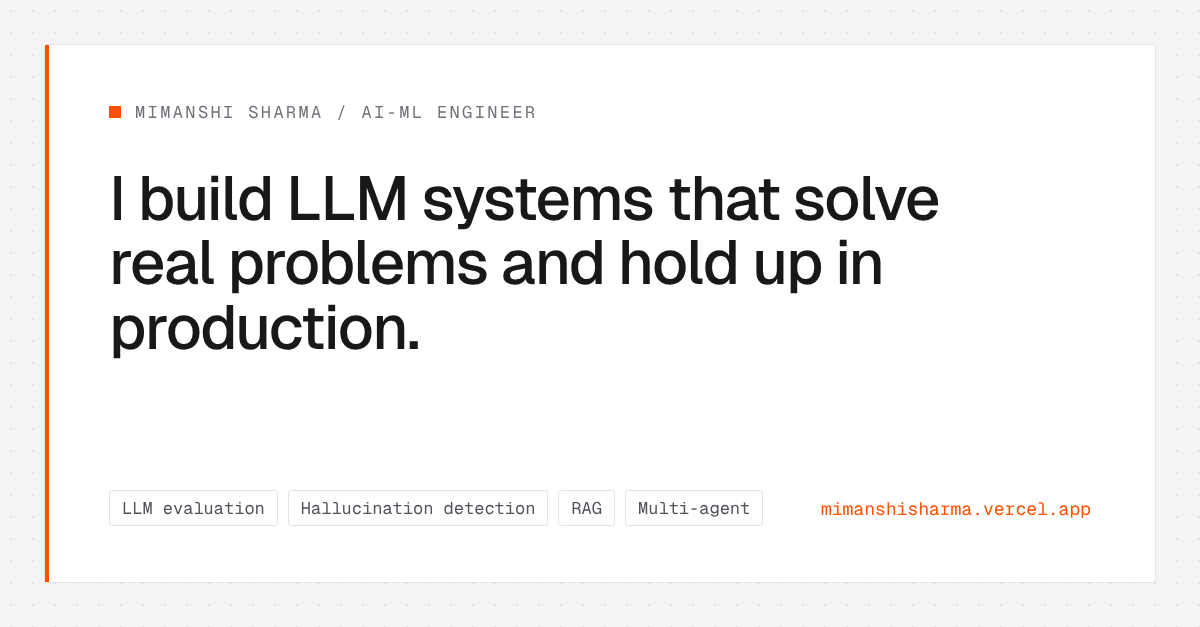
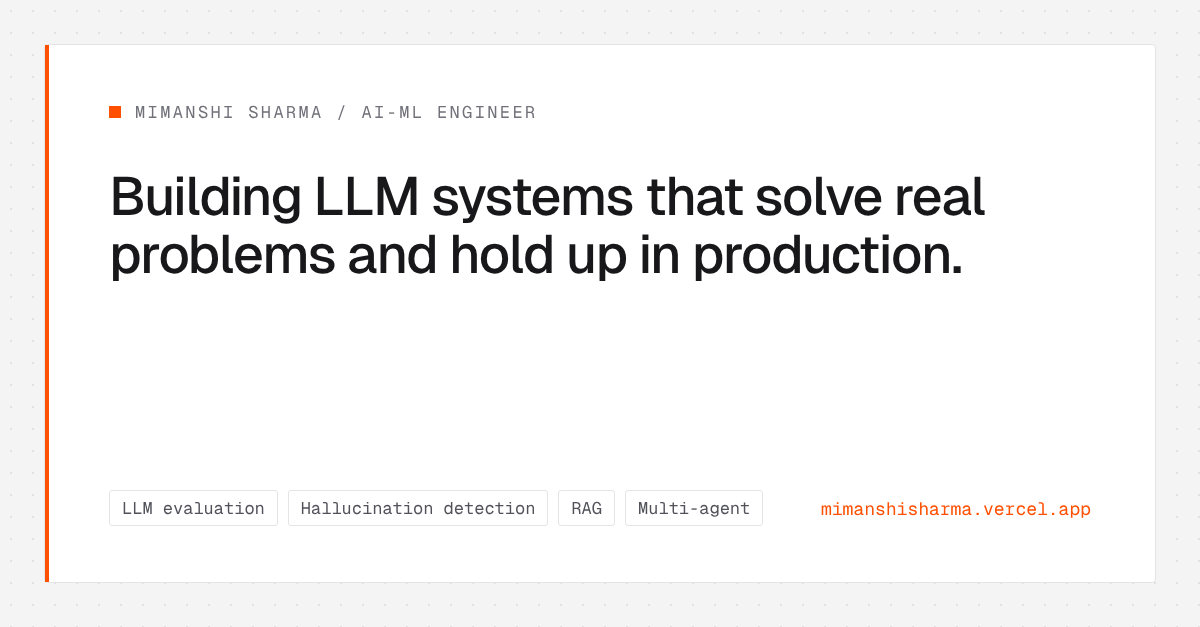
Headline: Building LLM systems that solve real problems, set in two lines
Claude-Session: https://claude.ai/code/session_01LLtqZ1GY5ZiZnVoywH38LJ

Changed region(s): [[0.0925, 0.2727, 0.8325, 0.4545], [0.0925, 0.4848, 0.3392, 0.5758]]

diff --git a/index.html b/index.html
@@ -24,7 +24,7 @@
 <link rel="preconnect" href="https://fonts.gstatic.com" crossorigin>
 <link rel="stylesheet" href="https://fonts.googleapis.com/css2?family=Geist:wght@400;500;600&family=Geist+Mono:wght@400;500&family=JetBrains+Mono:wght@400;500&display=swap">
 <style>
-*,:after,:before{--tw-border-spacing-x:0;--tw-border-spacing-y:0;--tw-translate-x:0;--tw-translate-y:0;--tw-rotate:0;--tw-skew-x:0;--tw-skew-y:0;--tw-scale-x:1;--tw-scale-y:1;--tw-pan-x: ;--tw-pan-y: ;--tw-pinch-zoom: ;--tw-scroll-snap-strictness:proximity;--tw-gradient-from-position: ;--tw-gradient-via-position: ;--tw-gradient-to-position: ;--tw-ordinal: ;--tw-slashed-zero: ;--tw-numeric-figure: ;--tw-numeric-spacing: ;--tw-numeric-fraction: ;--tw-ring-inset: ;--tw-ring-offset-width:0px;--tw-ring-offset-color:#fff;--tw-ring-color:rgba(59,130,246,.5);--tw-ring-offset-shadow:0 0 #0000;--tw-ring-shadow:0 0 #0000;--tw-shadow:0 0 #0000;--tw-shadow-colored:0 0 #0000;--tw-blur: ;--tw-brightness: ;--tw-contrast: ;--tw-grayscale: ;--tw-hue-rotate: ;--tw-invert: ;--tw-saturate: ;--tw-sepia: ;--tw-drop-shadow: ;--tw-backdrop-blur: ;--tw-backdrop-brightness: ;--tw-backdrop-contrast: ;--tw-backdrop-grayscale: ;--tw-backdrop-hue-rotate: ;--tw-backdrop-invert: ;--tw-backdrop-opacity: ;--tw-backdrop-saturate: ;--tw-backdrop-sepia: ;--tw-contain-size: ;--tw-contain-layout: ;--tw-contain-paint: ;--tw-contain-style: }::backdrop{--tw-border-spacing-x:0;--tw-border-spacing-y:0;--tw-translate-x:0;--tw-translate-y:0;--tw-rotate:0;--tw-skew-x:0;--tw-skew-y:0;--tw-scale-x:1;--tw-scale-y:1;--tw-pan-x: ;--tw-pan-y: ;--tw-pinch-zoom: ;--tw-scroll-snap-strictness:proximity;--tw-gradient-from-position: ;--tw-gradient-via-position: ;--tw-gradient-to-position: ;--tw-ordinal: ;--tw-slashed-zero: ;--tw-numeric-figure: ;--tw-numeric-spacing: ;--tw-numeric-fraction: ;--tw-ring-inset: ;--tw-ring-offset-width:0px;--tw-ring-offset-color:#fff;--tw-ring-color:rgba(59,130,246,.5);--tw-ring-offset-shadow:0 0 #0000;--tw-ring-shadow:0 0 #0000;--tw-shadow:0 0 #0000;--tw-shadow-colored:0 0 #0000;--tw-blur: ;--tw-brightness: ;--tw-contrast: ;--tw-grayscale: ;--tw-hue-rotate: ;--tw-invert: ;--tw-saturate: ;--tw-sepia: ;--tw-drop-shadow: ;--tw-backdrop-blur: ;--tw-backdrop-brightness: ;--tw-backdrop-contrast: ;--tw-backdrop-grayscale: ;--tw-backdrop-hue-rotate: ;--tw-backdrop-invert: ;--tw-backdrop-opacity: ;--tw-backdrop-saturate: ;--tw-backdrop-sepia: ;--tw-contain-size: ;--tw-contain-layout: ;--tw-contain-paint: ;--tw-contain-style: }/*! tailwindcss v3.4.17 | MIT License | https://tailwindcss.com*/*,:after,:before{box-sizing:border-box;border:0 solid #e5e7eb}:after,:before{--tw-content:""}:host,html{line-height:1.5;-webkit-text-size-adjust:100%;-moz-tab-size:4;-o-tab-size:4;tab-size:4;font-family:Geist,ui-sans-serif,system-ui,-apple-system,Segoe UI,Roboto,sans-serif;font-feature-settings:normal;font-variation-settings:normal;-webkit-tap-highlight-color:transparent}body{margin:0;line-height:inherit}hr{height:0;color:inherit;border-top-width:1px}abbr:where([title]){-webkit-text-decoration:underline dotted;text-decoration:underline dotted}h1,h2,h3,h4,h5,h6{font-size:inherit;font-weight:inherit}a{color:inherit;text-decoration:inherit}b,strong{font-weight:bolder}code,kbd,pre,samp{font-family:Geist Mono,ui-monospace,SFMono-Regular,Menlo,monospace;font-feature-settings:normal;font-variation-settings:normal;font-size:1em}small{font-size:80%}sub,sup{font-size:75%;line-height:0;position:relative;vertical-align:baseline}sub{bottom:-.25em}sup{top:-.5em}table{text-indent:0;border-color:inherit;border-collapse:collapse}button,input,optgroup,select,textarea{font-family:inherit;font-feature-settings:inherit;font-variation-settings:inherit;font-size:100%;font-weight:inherit;line-height:inherit;letter-spacing:inherit;color:inherit;margin:0;padding:0}button,select{text-transform:none}button,input:where([type=button]),input:where([type=reset]),input:where([type=submit]){-webkit-appearance:button;background-color:transparent;background-image:none}:-moz-focusring{outline:auto}:-moz-ui-invalid{box-shadow:none}progress{vertical-align:baseline}::-webkit-inner-spin-button,::-webkit-outer-spin-button{height:auto}[type=search]{-webkit-appearance:textfield;outline-offset:-2px}::-webkit-search-decoration{-webkit-appearance:none}::-webkit-file-upload-button{-webkit-appearance:button;font:inherit}summary{display:list-item}blockquote,dd,dl,figure,h1,h2,h3,h4,h5,h6,hr,p,pre{margin:0}fieldset{margin:0}fieldset,legend{padding:0}menu,ol,ul{list-style:none;margin:0;padding:0}dialog{padding:0}textarea{resize:vertical}input::-moz-placeholder,textarea::-moz-placeholder{opacity:1;color:#9ca3af}input::placeholder,textarea::placeholder{opacity:1;color:#9ca3af}[role=button],button{cursor:pointer}:disabled{cursor:default}audio,canvas,embed,iframe,img,object,svg,video{display:block;vertical-align:middle}img,video{max-width:100%;height:auto}[hidden]:where(:not([hidden=until-found])){display:none}.fixed{position:fixed}.absolute{position:absolute}.relative{position:relative}.sticky{position:sticky}.inset-0{inset:0}.inset-y-0{top:0;bottom:0}.-left-\[30px\]{left:-30px}.bottom-0{bottom:0}.bottom-1\.5{bottom:.375rem}.bottom-\[-1px\]{bottom:-1px}.left-0{left:0}.left-1\/2{left:50%}.left-3{left:.75rem}.left-\[7px\]{left:7px}.right-0{right:0}.top-0{top:0}.top-1\.5{top:.375rem}.top-1\/2{top:50%}.top-5{top:1.25rem}.z-50{z-index:50}.z-\[100\]{z-index:100}.z-\[110\]{z-index:110}.z-\[120\]{z-index:120}.m-0{margin:0}.-mx-\[max\(16px\2c env\(safe-area-inset-left\2c 0px\)\)\]{margin-left:calc(max(16px,env(safe-area-inset-left,0px))*-1);margin-right:calc(max(16px,env(safe-area-inset-left,0px))*-1)}.mx-auto{margin-left:auto;margin-right:auto}.mb-12{margin-bottom:3rem}.mb-4{margin-bottom:1rem}.ml-0\.5{margin-left:.125rem}.mr-2{margin-right:.5rem}.mt-1{margin-top:.25rem}.block{display:block}.flex{display:flex}.grid{display:grid}.hidden{display:none}.h-1\.5{height:.375rem}.h-12{height:3rem}.h-14{height:3.5rem}.h-2{height:.5rem}.h-2\.5{height:.625rem}.h-3{height:.75rem}.h-4{height:1rem}.h-6{height:1.5rem}.h-7{height:1.75rem}.h-8{height:2rem}.h-9{height:2.25rem}.h-\[12px\]{height:12px}.h-\[2px\]{height:2px}.h-auto{height:auto}.h-full{height:100%}.max-h-\[52px\]{max-height:52px}.max-h-\[75vh\]{max-height:75vh}.max-h-full{max-height:100%}.min-h-\[3em\]{min-height:3em}.w-1\.5{width:.375rem}.w-10{width:2.5rem}.w-16{width:4rem}.w-2{width:.5rem}.w-3{width:.75rem}.w-6{width:1.5rem}.w-7{width:1.75rem}.w-8{width:2rem}.w-9{width:2.25rem}.w-\[12px\]{width:12px}.w-\[2px\]{width:2px}.w-auto{width:auto}.w-full{width:100%}.min-w-0{min-width:0}.max-w-6xl{max-width:72rem}.max-w-\[1100px\]{max-width:1100px}.max-w-\[120px\]{max-width:120px}.max-w-\[34em\]{max-width:34em}.max-w-\[420px\]{max-width:420px}.max-w-\[46em\]{max-width:46em}.max-w-\[48em\]{max-width:48em}.max-w-\[50em\]{max-width:50em}.max-w-\[560px\]{max-width:560px}.max-w-\[760px\]{max-width:760px}.max-w-\[820px\]{max-width:820px}.max-w-full{max-width:100%}.flex-1{flex:1 1 0%}.shrink-0{flex-shrink:0}.grow{flex-grow:1}.-translate-x-1\/2{--tw-translate-x:-50%}.-translate-x-1\/2,.-translate-y-1\/2{transform:translate(var(--tw-translate-x),var(--tw-translate-y)) rotate(var(--tw-rotate)) skewX(var(--tw-skew-x)) skewY(var(--tw-skew-y)) scaleX(var(--tw-scale-x)) scaleY(var(--tw-scale-y))}.-translate-y-1\/2{--tw-translate-y:-50%}.transform{transform:translate(var(--tw-translate-x),var(--tw-translate-y)) rotate(var(--tw-rotate)) skewX(var(--tw-skew-x)) skewY(var(--tw-skew-y)) scaleX(var(--tw-scale-x)) scaleY(var(--tw-scale-y))}.select-all{-webkit-user-select:all;-moz-user-select:all;user-select:all}.resize{resize:both}.scroll-mt-16{scroll-margin-top:4rem}.scroll-mt-20{scroll-margin-top:5rem}.scroll-mt-24{scroll-margin-top:6rem}.list-none{list-style-type:none}.grid-cols-1{grid-template-columns:repeat(1,minmax(0,1fr))}.grid-cols-2{grid-template-columns:repeat(2,minmax(0,1fr))}.grid-cols-\[repeat\(19\2c minmax\(0\2c 1fr\)\)\]{grid-template-columns:repeat(19,minmax(0,1fr))}.flex-col{flex-direction:column}.flex-wrap{flex-wrap:wrap}.place-items-center{place-items:center}.content-start{align-content:flex-start}.items-start{align-items:flex-start}.items-end{align-items:flex-end}.items-center{align-items:center}.items-stretch{align-items:stretch}.justify-center{justify-content:center}.justify-between{justify-content:space-between}.gap-0{gap:0}.gap-1{gap:.25rem}.gap-1\.5{gap:.375rem}.gap-2{gap:.5rem}.gap-3{gap:.75rem}.gap-4{gap:1rem}.gap-5{gap:1.25rem}.gap-6{gap:1.5rem}.gap-8{gap:2rem}.gap-\[3px\]{gap:3px}.gap-x-4{-moz-column-gap:1rem;column-gap:1rem}.gap-y-1{row-gap:.25rem}.divide-y>:not([hidden])~:not([hidden]){--tw-divide-y-reverse:0;border-top-width:calc(1px*(1 - var(--tw-divide-y-reverse)));border-bottom-width:calc(1px*var(--tw-divide-y-reverse))}.divide-zinc-200>:not([hidden])~:not([hidden]){--tw-divide-opacity:1;border-color:rgb(228 228 231/var(--tw-divide-opacity,1))}.self-start{align-self:flex-start}.self-center{align-self:center}.justify-self-start{justify-self:start}.justify-self-center{justify-self:center}.overflow-auto{overflow:auto}.overflow-hidden,.truncate{overflow:hidden}.truncate{text-overflow:ellipsis}.truncate,.whitespace-nowrap{white-space:nowrap}.break-all{word-break:break-all}.rounded{border-radius:.25rem}.rounded-\[1px\]{border-radius:1px}.rounded-full{border-radius:9999px}.rounded-sm{border-radius:.125rem}.border{border-width:1px}.border-2{border-width:2px}.border-b{border-bottom-width:1px}.border-b-2{border-bottom-width:2px}.border-l{border-left-width:1px}.border-l-2{border-left-width:2px}.border-t{border-top-width:1px}.border-dashed{border-style:dashed}.border-\[\#FF4F00\]{--tw-border-opacity:1;border-color:rgb(255 79 0/var(--tw-border-opacity,1))}.border-\[\#FF4F00\]\/40{border-color:rgba(255,79,0,.4)}.border-transparent{border-color:transparent}.border-zinc-200{--tw-border-opacity:1;border-color:rgb(228 228 231/var(--tw-border-opacity,1))}.border-zinc-300{--tw-border-opacity:1;border-color:rgb(212 212 216/var(--tw-border-opacity,1))}.border-zinc-900{--tw-border-opacity:1;border-color:rgb(24 24 27/var(--tw-border-opacity,1))}.bg-\[\#16A34A\]{--tw-bg-opacity:1;background-color:rgb(22 163 74/var(--tw-bg-opacity,1))}.bg-\[\#FF4F00\]{--tw-bg-opacity:1;background-color:rgb(255 79 0/var(--tw-bg-opacity,1))}.bg-transparent{background-color:transparent}.bg-white{--tw-bg-opacity:1;background-color:rgb(255 255 255/var(--tw-bg-opacity,1))}.bg-zinc-100{--tw-bg-opacity:1;background-color:rgb(244 244 245/var(--tw-bg-opacity,1))}.bg-zinc-100\/80{background-color:hsla(240,5%,96%,.8)}.bg-zinc-200{--tw-bg-opacity:1;background-color:rgb(228 228 231/var(--tw-bg-opacity,1))}.bg-zinc-400{--tw-bg-opacity:1;background-color:rgb(161 161 170/var(--tw-bg-opacity,1))}.bg-zinc-50{--tw-bg-opacity:1;background-color:rgb(250 250 250/var(--tw-bg-opacity,1))}.bg-zinc-700{--tw-bg-opacity:1;background-color:rgb(63 63 70/var(--tw-bg-opacity,1))}.bg-zinc-900{--tw-bg-opacity:1;background-color:rgb(24 24 27/var(--tw-bg-opacity,1))}.bg-zinc-900\/20{background-color:rgba(24,24,27,.2)}.bg-zinc-900\/60{background-color:rgba(24,24,27,.6)}.object-contain{-o-object-fit:contain;object-fit:contain}.object-cover{-o-object-fit:cover;object-fit:cover}.object-top{-o-object-position:top;object-position:top}.p-0{padding:0}.p-3{padding:.75rem}.p-4{padding:1rem}.p-5{padding:1.25rem}.p-6{padding:1.5rem}.p-8{padding:2rem}.px-1\.5{padding-left:.375rem;padding-right:.375rem}.px-2{padding-left:.5rem;padding-right:.5rem}.px-2\.5{padding-left:.625rem;padding-right:.625rem}.px-3{padding-left:.75rem;padding-right:.75rem}.px-4{padding-left:1rem;padding-right:1rem}.px-5{padding-left:1.25rem;padding-right:1.25rem}.py-0\.5{padding-top:.125rem;padding-bottom:.125rem}.py-1{padding-top:.25rem;padding-bottom:.25rem}.py-1\.5{padding-top:.375rem;padding-bottom:.375rem}.py-2{padding-top:.5rem;padding-bottom:.5rem}.py-2\.5{padding-top:.625rem;padding-bottom:.625rem}.py-3{padding-top:.75rem;padding-bottom:.75rem}.py-px{padding-top:1px;padding-bottom:1px}.pb-10{padding-bottom:2.5rem}.pb-2{padding-bottom:.5rem}.pb-20{padding-bottom:5rem}.pl-3{padding-left:.75rem}.pl-4{padding-left:1rem}.pl-8{padding-left:2rem}.pr-2{padding-right:.5rem}.pt-0\.5{padding-top:.125rem}.pt-1{padding-top:.25rem}.pt-10{padding-top:2.5rem}.pt-16{padding-top:4rem}.pt-20{padding-top:5rem}.pt-5{padding-top:1.25rem}.text-left{text-align:left}.font-mono{font-family:Geist Mono,ui-monospace,SFMono-Regular,Menlo,monospace}.font-sans{font-family:Geist,ui-sans-serif,system-ui,-apple-system,Segoe UI,Roboto,sans-serif}.text-2xl{font-size:1.5rem;line-height:2rem}.text-\[10\.5px\]{font-size:10.5px}.text-\[10px\]{font-size:10px}.text-\[11\.5px\]{font-size:11.5px}.text-\[11px\]{font-size:11px}.text-\[12px\]{font-size:12px}.text-\[13px\]{font-size:13px}.text-\[14px\]{font-size:14px}.text-\[15px\]{font-size:15px}.text-\[16\.5px\]{font-size:16.5px}.text-\[17px\]{font-size:17px}.text-\[20px\]{font-size:20px}.text-\[22px\]{font-size:22px}.text-\[24px\]{font-size:24px}.text-\[26px\]{font-size:26px}.text-\[28px\]{font-size:28px}.text-\[30px\]{font-size:30px}.text-\[40px\]{font-size:40px}.text-\[9\.5px\]{font-size:9.5px}.text-lg{font-size:1.125rem;line-height:1.75rem}.text-sm{font-size:.875rem;line-height:1.25rem}.text-xs{font-size:.75rem;line-height:1rem}.font-medium{font-weight:500}.uppercase{text-transform:uppercase}.leading-\[1\.02\]{line-height:1.02}.leading-\[1\.05\]{line-height:1.05}.leading-none{line-height:1}.leading-relaxed{line-height:1.625}.leading-snug{line-height:1.375}.leading-tight{line-height:1.25}.tracking-\[-0\.01em\]{letter-spacing:-.01em}.tracking-\[-0\.02em\]{letter-spacing:-.02em}.tracking-\[-0\.03em\]{letter-spacing:-.03em}.tracking-\[0\.12em\]{letter-spacing:.12em}.tracking-tight{letter-spacing:-.025em}.text-\[\#FF4F00\]{--tw-text-opacity:1;color:rgb(255 79 0/var(--tw-text-opacity,1))}.text-white{--tw-text-opacity:1;color:rgb(255 255 255/var(--tw-text-opacity,1))}.text-zinc-400{--tw-text-opacity:1;color:rgb(161 161 170/var(--tw-text-opacity,1))}.text-zinc-500{--tw-text-opacity:1;color:rgb(113 113 122/var(--tw-text-opacity,1))}.text-zinc-600{--tw-text-opacity:1;color:rgb(82 82 91/var(--tw-text-opacity,1))}.text-zinc-700{--tw-text-opacity:1;color:rgb(63 63 70/var(--tw-text-opacity,1))}.text-zinc-800{--tw-text-opacity:1;color:rgb(39 39 42/var(--tw-text-opacity,1))}.text-zinc-900{--tw-text-opacity:1;color:rgb(24 24 27/var(--tw-text-opacity,1))}.underline{text-decoration-line:underline}.no-underline{text-decoration-line:none}.decoration-zinc-300{text-decoration-color:#d4d4d8}.underline-offset-4{text-underline-offset:4px}.shadow-\[0_20px_60px_-20px_rgba\(24\2c 24\2c 27\2c \.35\)\]{--tw-shadow:0 20px 60px -20px rgba(24,24,27,.35);--tw-shadow-colored:0 20px 60px -20px var(--tw-shadow-color);box-shadow:var(--tw-ring-offset-shadow,0 0 #0000),var(--tw-ring-shadow,0 0 #0000),var(--tw-shadow)}.outline-none{outline:2px solid transparent;outline-offset:2px}.ring{--tw-ring-offset-shadow:var(--tw-ring-inset) 0 0 0 var(--tw-ring-offset-width) var(--tw-ring-offset-color);--tw-ring-shadow:var(--tw-ring-inset) 0 0 0 calc(3px + var(--tw-ring-offset-width)) var(--tw-ring-color);box-shadow:var(--tw-ring-offset-shadow),var(--tw-ring-shadow),var(--tw-shadow,0 0 #0000)}.backdrop-blur-md{--tw-backdrop-blur:blur(12px)}.backdrop-blur-md,.backdrop-blur-sm{-webkit-backdrop-filter:var(--tw-backdrop-blur) var(--tw-backdrop-brightness) var(--tw-backdrop-contrast) var(--tw-backdrop-grayscale) var(--tw-backdrop-hue-rotate) var(--tw-backdrop-invert) var(--tw-backdrop-opacity) var(--tw-backdrop-saturate) var(--tw-backdrop-sepia);backdrop-filter:var(--tw-backdrop-blur) var(--tw-backdrop-brightness) var(--tw-backdrop-contrast) var(--tw-backdrop-grayscale) var(--tw-backdrop-hue-rotate) var(--tw-backdrop-invert) var(--tw-backdrop-opacity) var(--tw-backdrop-saturate) var(--tw-backdrop-sepia)}.backdrop-blur-sm{--tw-backdrop-blur:blur(4px)}.transition-all{transition-property:all;transition-timing-function:cubic-bezier(.4,0,.2,1);transition-duration:.15s}.transition-colors{transition-property:color,background-color,border-color,text-decoration-color,fill,stroke;transition-timing-function:cubic-bezier(.4,0,.2,1);transition-duration:.15s}.transition-transform{transition-property:transform;transition-timing-function:cubic-bezier(.4,0,.2,1);transition-duration:.15s}.duration-300{transition-duration:.3s}.duration-500{transition-duration:.5s}.duration-700{transition-duration:.7s}.ease-in-out{transition-timing-function:cubic-bezier(.4,0,.2,1)}.ease-out{transition-timing-function:cubic-bezier(0,0,.2,1)}.\[text-wrap\:balance\]{text-wrap:balance}.last\:border-b-0:last-child{border-bottom-width:0}.last\:pb-4:last-child{padding-bottom:1rem}.hover\:-translate-y-0\.5:hover{--tw-translate-y:-0.125rem;transform:translate(var(--tw-translate-x),var(--tw-translate-y)) rotate(var(--tw-rotate)) skewX(var(--tw-skew-x)) skewY(var(--tw-skew-y)) scaleX(var(--tw-scale-x)) scaleY(var(--tw-scale-y))}.hover\:border-zinc-300:hover{--tw-border-opacity:1;border-color:rgb(212 212 216/var(--tw-border-opacity,1))}.hover\:border-zinc-900:hover{--tw-border-opacity:1;border-color:rgb(24 24 27/var(--tw-border-opacity,1))}.hover\:bg-white:hover{--tw-bg-opacity:1;background-color:rgb(255 255 255/var(--tw-bg-opacity,1))}.hover\:bg-zinc-50:hover{--tw-bg-opacity:1;background-color:rgb(250 250 250/var(--tw-bg-opacity,1))}.hover\:bg-zinc-700:hover{--tw-bg-opacity:1;background-color:rgb(63 63 70/var(--tw-bg-opacity,1))}.hover\:text-zinc-900:hover{--tw-text-opacity:1;color:rgb(24 24 27/var(--tw-text-opacity,1))}.hover\:decoration-\[\#FF4F00\]:hover{text-decoration-color:#ff4f00}.group:hover .group-hover\:border-zinc-900{--tw-border-opacity:1;border-color:rgb(24 24 27/var(--tw-border-opacity,1))}.group:hover .group-hover\:text-zinc-600{--tw-text-opacity:1;color:rgb(82 82 91/var(--tw-text-opacity,1))}.group:hover .group-hover\:text-zinc-900{--tw-text-opacity:1;color:rgb(24 24 27/var(--tw-text-opacity,1))}@media (min-width:640px){.sm\:inline{display:inline}.sm\:grid-cols-2{grid-template-columns:repeat(2,minmax(0,1fr))}.sm\:grid-cols-3{grid-template-columns:repeat(3,minmax(0,1fr))}.sm\:grid-cols-\[1fr_auto_1fr\]{grid-template-columns:1fr auto 1fr}.sm\:flex-row{flex-direction:row}.sm\:items-center{align-items:center}.sm\:gap-4{gap:1rem}.sm\:p-10{padding:2.5rem}.sm\:p-5{padding:1.25rem}.sm\:p-6{padding:1.5rem}.sm\:p-7{padding:1.75rem}.sm\:px-6{padding-left:1.5rem;padding-right:1.5rem}.sm\:text-\[30px\]{font-size:30px}.sm\:text-\[38px\]{font-size:38px}.sm\:text-\[40px\]{font-size:40px}.sm\:text-\[60px\]{font-size:60px}}@media not all and (min-width:1280px){@media (min-width:640px){.max-xl\:sm\:grid-cols-3{grid-template-columns:repeat(3,minmax(0,1fr))}.max-xl\:sm\:divide-x>:not([hidden])~:not([hidden]){--tw-divide-x-reverse:0;border-right-width:calc(1px*var(--tw-divide-x-reverse));border-left-width:calc(1px*(1 - var(--tw-divide-x-reverse)))}.max-xl\:sm\:divide-y-0>:not([hidden])~:not([hidden]){--tw-divide-y-reverse:0;border-top-width:calc(0px*(1 - var(--tw-divide-y-reverse)));border-bottom-width:calc(0px*var(--tw-divide-y-reverse))}}}@media (min-width:768px){.md\:-left-\[38px\]{left:-38px}.md\:inline{display:inline}.md\:grid-cols-2{grid-template-columns:repeat(2,minmax(0,1fr))}.md\:grid-cols-3{grid-template-columns:repeat(3,minmax(0,1fr))}.md\:grid-cols-\[minmax\(0\2c 1\.2fr\)_minmax\(0\2c 1fr\)\]{grid-template-columns:minmax(0,1.2fr) minmax(0,1fr)}.md\:pl-10{padding-left:2.5rem}}@media (min-width:1024px){.lg\:sticky{position:sticky}.lg\:top-\[96px\]{top:96px}.lg\:flex{display:flex}.lg\:grid-cols-2{grid-template-columns:repeat(2,minmax(0,1fr))}.lg\:grid-cols-5{grid-template-columns:repeat(5,minmax(0,1fr))}.lg\:grid-cols-\[1\.3fr_1fr\]{grid-template-columns:1.3fr 1fr}.lg\:grid-cols-\[200px_minmax\(0\2c 1fr\)\]{grid-template-columns:200px minmax(0,1fr)}.lg\:justify-items-end{justify-items:end}.lg\:gap-8{gap:2rem}.lg\:pt-28{padding-top:7rem}}@media (min-width:1280px){.xl\:sticky{position:sticky}.xl\:top-\[88px\]{top:88px}.xl\:grid-cols-\[240px_minmax\(0\2c 1fr\)\]{grid-template-columns:240px minmax(0,1fr)}.xl\:divide-y>:not([hidden])~:not([hidden]){--tw-divide-y-reverse:0;border-top-width:calc(1px*(1 - var(--tw-divide-y-reverse)));border-bottom-width:calc(1px*var(--tw-divide-y-reverse))}}
+*,:after,:before{--tw-border-spacing-x:0;--tw-border-spacing-y:0;--tw-translate-x:0;--tw-translate-y:0;--tw-rotate:0;--tw-skew-x:0;--tw-skew-y:0;--tw-scale-x:1;--tw-scale-y:1;--tw-pan-x: ;--tw-pan-y: ;--tw-pinch-zoom: ;--tw-scroll-snap-strictness:proximity;--tw-gradient-from-position: ;--tw-gradient-via-position: ;--tw-gradient-to-position: ;--tw-ordinal: ;--tw-slashed-zero: ;--tw-numeric-figure: ;--tw-numeric-spacing: ;--tw-numeric-fraction: ;--tw-ring-inset: ;--tw-ring-offset-width:0px;--tw-ring-offset-color:#fff;--tw-ring-color:rgba(59,130,246,.5);--tw-ring-offset-shadow:0 0 #0000;--tw-ring-shadow:0 0 #0000;--tw-shadow:0 0 #0000;--tw-shadow-colored:0 0 #0000;--tw-blur: ;--tw-brightness: ;--tw-contrast: ;--tw-grayscale: ;--tw-hue-rotate: ;--tw-invert: ;--tw-saturate: ;--tw-sepia: ;--tw-drop-shadow: ;--tw-backdrop-blur: ;--tw-backdrop-brightness: ;--tw-backdrop-contrast: ;--tw-backdrop-grayscale: ;--tw-backdrop-hue-rotate: ;--tw-backdrop-invert: ;--tw-backdrop-opacity: ;--tw-backdrop-saturate: ;--tw-backdrop-sepia: ;--tw-contain-size: ;--tw-contain-layout: ;--tw-contain-paint: ;--tw-contain-style: }::backdrop{--tw-border-spacing-x:0;--tw-border-spacing-y:0;--tw-translate-x:0;--tw-translate-y:0;--tw-rotate:0;--tw-skew-x:0;--tw-skew-y:0;--tw-scale-x:1;--tw-scale-y:1;--tw-pan-x: ;--tw-pan-y: ;--tw-pinch-zoom: ;--tw-scroll-snap-strictness:proximity;--tw-gradient-from-position: ;--tw-gradient-via-position: ;--tw-gradient-to-position: ;--tw-ordinal: ;--tw-slashed-zero: ;--tw-numeric-figure: ;--tw-numeric-spacing: ;--tw-numeric-fraction: ;--tw-ring-inset: ;--tw-ring-offset-width:0px;--tw-ring-offset-color:#fff;--tw-ring-color:rgba(59,130,246,.5);--tw-ring-offset-shadow:0 0 #0000;--tw-ring-shadow:0 0 #0000;--tw-shadow:0 0 #0000;--tw-shadow-colored:0 0 #0000;--tw-blur: ;--tw-brightness: ;--tw-contrast: ;--tw-grayscale: ;--tw-hue-rotate: ;--tw-invert: ;--tw-saturate: ;--tw-sepia: ;--tw-drop-shadow: ;--tw-backdrop-blur: ;--tw-backdrop-brightness: ;--tw-backdrop-contrast: ;--tw-backdrop-grayscale: ;--tw-backdrop-hue-rotate: ;--tw-backdrop-invert: ;--tw-backdrop-opacity: ;--tw-backdrop-saturate: ;--tw-backdrop-sepia: ;--tw-contain-size: ;--tw-contain-layout: ;--tw-contain-paint: ;--tw-contain-style: }/*! tailwindcss v3.4.17 | MIT License | https://tailwindcss.com*/*,:after,:before{box-sizing:border-box;border:0 solid #e5e7eb}:after,:before{--tw-content:""}:host,html{line-height:1.5;-webkit-text-size-adjust:100%;-moz-tab-size:4;-o-tab-size:4;tab-size:4;font-family:Geist,ui-sans-serif,system-ui,-apple-system,Segoe UI,Roboto,sans-serif;font-feature-settings:normal;font-variation-settings:normal;-webkit-tap-highlight-color:transparent}body{margin:0;line-height:inherit}hr{height:0;color:inherit;border-top-width:1px}abbr:where([title]){-webkit-text-decoration:underline dotted;text-decoration:underline dotted}h1,h2,h3,h4,h5,h6{font-size:inherit;font-weight:inherit}a{color:inherit;text-decoration:inherit}b,strong{font-weight:bolder}code,kbd,pre,samp{font-family:Geist Mono,ui-monospace,SFMono-Regular,Menlo,monospace;font-feature-settings:normal;font-variation-settings:normal;font-size:1em}small{font-size:80%}sub,sup{font-size:75%;line-height:0;position:relative;vertical-align:baseline}sub{bottom:-.25em}sup{top:-.5em}table{text-indent:0;border-color:inherit;border-collapse:collapse}button,input,optgroup,select,textarea{font-family:inherit;font-feature-settings:inherit;font-variation-settings:inherit;font-size:100%;font-weight:inherit;line-height:inherit;letter-spacing:inherit;color:inherit;margin:0;padding:0}button,select{text-transform:none}button,input:where([type=button]),input:where([type=reset]),input:where([type=submit]){-webkit-appearance:button;background-color:transparent;background-image:none}:-moz-focusring{outline:auto}:-moz-ui-invalid{box-shadow:none}progress{vertical-align:baseline}::-webkit-inner-spin-button,::-webkit-outer-spin-button{height:auto}[type=search]{-webkit-appearance:textfield;outline-offset:-2px}::-webkit-search-decoration{-webkit-appearance:none}::-webkit-file-upload-button{-webkit-appearance:button;font:inherit}summary{display:list-item}blockquote,dd,dl,figure,h1,h2,h3,h4,h5,h6,hr,p,pre{margin:0}fieldset{margin:0}fieldset,legend{padding:0}menu,ol,ul{list-style:none;margin:0;padding:0}dialog{padding:0}textarea{resize:vertical}input::-moz-placeholder,textarea::-moz-placeholder{opacity:1;color:#9ca3af}input::placeholder,textarea::placeholder{opacity:1;color:#9ca3af}[role=button],button{cursor:pointer}:disabled{cursor:default}audio,canvas,embed,iframe,img,object,svg,video{display:block;vertical-align:middle}img,video{max-width:100%;height:auto}[hidden]:where(:not([hidden=until-found])){display:none}.fixed{position:fixed}.absolute{position:absolute}.relative{position:relative}.sticky{position:sticky}.inset-0{inset:0}.inset-y-0{top:0;bottom:0}.-left-\[30px\]{left:-30px}.bottom-0{bottom:0}.bottom-1\.5{bottom:.375rem}.bottom-\[-1px\]{bottom:-1px}.left-0{left:0}.left-1\/2{left:50%}.left-3{left:.75rem}.left-\[7px\]{left:7px}.right-0{right:0}.top-0{top:0}.top-1\.5{top:.375rem}.top-1\/2{top:50%}.top-5{top:1.25rem}.z-50{z-index:50}.z-\[100\]{z-index:100}.z-\[110\]{z-index:110}.z-\[120\]{z-index:120}.m-0{margin:0}.-mx-\[max\(16px\2c env\(safe-area-inset-left\2c 0px\)\)\]{margin-left:calc(max(16px,env(safe-area-inset-left,0px))*-1);margin-right:calc(max(16px,env(safe-area-inset-left,0px))*-1)}.mx-auto{margin-left:auto;margin-right:auto}.mb-12{margin-bottom:3rem}.mb-4{margin-bottom:1rem}.ml-0\.5{margin-left:.125rem}.mr-2{margin-right:.5rem}.mt-1{margin-top:.25rem}.block{display:block}.flex{display:flex}.grid{display:grid}.hidden{display:none}.h-1\.5{height:.375rem}.h-12{height:3rem}.h-14{height:3.5rem}.h-2{height:.5rem}.h-2\.5{height:.625rem}.h-3{height:.75rem}.h-4{height:1rem}.h-6{height:1.5rem}.h-7{height:1.75rem}.h-8{height:2rem}.h-9{height:2.25rem}.h-\[12px\]{height:12px}.h-\[2px\]{height:2px}.h-auto{height:auto}.h-full{height:100%}.max-h-\[52px\]{max-height:52px}.max-h-\[75vh\]{max-height:75vh}.max-h-full{max-height:100%}.min-h-\[3em\]{min-height:3em}.w-1\.5{width:.375rem}.w-10{width:2.5rem}.w-16{width:4rem}.w-2{width:.5rem}.w-3{width:.75rem}.w-6{width:1.5rem}.w-7{width:1.75rem}.w-8{width:2rem}.w-9{width:2.25rem}.w-\[12px\]{width:12px}.w-\[2px\]{width:2px}.w-auto{width:auto}.w-full{width:100%}.min-w-0{min-width:0}.max-w-6xl{max-width:72rem}.max-w-\[1040px\]{max-width:1040px}.max-w-\[1100px\]{max-width:1100px}.max-w-\[120px\]{max-width:120px}.max-w-\[34em\]{max-width:34em}.max-w-\[420px\]{max-width:420px}.max-w-\[46em\]{max-width:46em}.max-w-\[48em\]{max-width:48em}.max-w-\[50em\]{max-width:50em}.max-w-\[560px\]{max-width:560px}.max-w-\[820px\]{max-width:820px}.max-w-full{max-width:100%}.flex-1{flex:1 1 0%}.shrink-0{flex-shrink:0}.grow{flex-grow:1}.-translate-x-1\/2{--tw-translate-x:-50%}.-translate-x-1\/2,.-translate-y-1\/2{transform:translate(var(--tw-translate-x),var(--tw-translate-y)) rotate(var(--tw-rotate)) skewX(var(--tw-skew-x)) skewY(var(--tw-skew-y)) scaleX(var(--tw-scale-x)) scaleY(var(--tw-scale-y))}.-translate-y-1\/2{--tw-translate-y:-50%}.transform{transform:translate(var(--tw-translate-x),var(--tw-translate-y)) rotate(var(--tw-rotate)) skewX(var(--tw-skew-x)) skewY(var(--tw-skew-y)) scaleX(var(--tw-scale-x)) scaleY(var(--tw-scale-y))}.select-all{-webkit-user-select:all;-moz-user-select:all;user-select:all}.resize{resize:both}.scroll-mt-16{scroll-margin-top:4rem}.scroll-mt-20{scroll-margin-top:5rem}.scroll-mt-24{scroll-margin-top:6rem}.list-none{list-style-type:none}.grid-cols-1{grid-template-columns:repeat(1,minmax(0,1fr))}.grid-cols-2{grid-template-columns:repeat(2,minmax(0,1fr))}.grid-cols-\[repeat\(19\2c minmax\(0\2c 1fr\)\)\]{grid-template-columns:repeat(19,minmax(0,1fr))}.flex-col{flex-direction:column}.flex-wrap{flex-wrap:wrap}.place-items-center{place-items:center}.content-start{align-content:flex-start}.items-start{align-items:flex-start}.items-end{align-items:flex-end}.items-center{align-items:center}.items-stretch{align-items:stretch}.justify-center{justify-content:center}.justify-between{justify-content:space-between}.gap-0{gap:0}.gap-1{gap:.25rem}.gap-1\.5{gap:.375rem}.gap-2{gap:.5rem}.gap-3{gap:.75rem}.gap-4{gap:1rem}.gap-5{gap:1.25rem}.gap-6{gap:1.5rem}.gap-8{gap:2rem}.gap-\[3px\]{gap:3px}.gap-x-4{-moz-column-gap:1rem;column-gap:1rem}.gap-y-1{row-gap:.25rem}.divide-y>:not([hidden])~:not([hidden]){--tw-divide-y-reverse:0;border-top-width:calc(1px*(1 - var(--tw-divide-y-reverse)));border-bottom-width:calc(1px*var(--tw-divide-y-reverse))}.divide-zinc-200>:not([hidden])~:not([hidden]){--tw-divide-opacity:1;border-color:rgb(228 228 231/var(--tw-divide-opacity,1))}.self-start{align-self:flex-start}.self-center{align-self:center}.justify-self-start{justify-self:start}.justify-self-center{justify-self:center}.overflow-auto{overflow:auto}.overflow-hidden,.truncate{overflow:hidden}.truncate{text-overflow:ellipsis}.truncate,.whitespace-nowrap{white-space:nowrap}.break-all{word-break:break-all}.rounded{border-radius:.25rem}.rounded-\[1px\]{border-radius:1px}.rounded-full{border-radius:9999px}.rounded-sm{border-radius:.125rem}.border{border-width:1px}.border-2{border-width:2px}.border-b{border-bottom-width:1px}.border-b-2{border-bottom-width:2px}.border-l{border-left-width:1px}.border-l-2{border-left-width:2px}.border-t{border-top-width:1px}.border-dashed{border-style:dashed}.border-\[\#FF4F00\]{--tw-border-opacity:1;border-color:rgb(255 79 0/var(--tw-border-opacity,1))}.border-\[\#FF4F00\]\/40{border-color:rgba(255,79,0,.4)}.border-transparent{border-color:transparent}.border-zinc-200{--tw-border-opacity:1;border-color:rgb(228 228 231/var(--tw-border-opacity,1))}.border-zinc-300{--tw-border-opacity:1;border-color:rgb(212 212 216/var(--tw-border-opacity,1))}.border-zinc-900{--tw-border-opacity:1;border-color:rgb(24 24 27/var(--tw-border-opacity,1))}.bg-\[\#16A34A\]{--tw-bg-opacity:1;background-color:rgb(22 163 74/var(--tw-bg-opacity,1))}.bg-\[\#FF4F00\]{--tw-bg-opacity:1;background-color:rgb(255 79 0/var(--tw-bg-opacity,1))}.bg-transparent{background-color:transparent}.bg-white{--tw-bg-opacity:1;background-color:rgb(255 255 255/var(--tw-bg-opacity,1))}.bg-zinc-100{--tw-bg-opacity:1;background-color:rgb(244 244 245/var(--tw-bg-opacity,1))}.bg-zinc-100\/80{background-color:hsla(240,5%,96%,.8)}.bg-zinc-200{--tw-bg-opacity:1;background-color:rgb(228 228 231/var(--tw-bg-opacity,1))}.bg-zinc-400{--tw-bg-opacity:1;background-color:rgb(161 161 170/var(--tw-bg-opacity,1))}.bg-zinc-50{--tw-bg-opacity:1;background-color:rgb(250 250 250/var(--tw-bg-opacity,1))}.bg-zinc-700{--tw-bg-opacity:1;background-color:rgb(63 63 70/var(--tw-bg-opacity,1))}.bg-zinc-900{--tw-bg-opacity:1;background-color:rgb(24 24 27/var(--tw-bg-opacity,1))}.bg-zinc-900\/20{background-color:rgba(24,24,27,.2)}.bg-zinc-900\/60{background-color:rgba(24,24,27,.6)}.object-contain{-o-object-fit:contain;object-fit:contain}.object-cover{-o-object-fit:cover;object-fit:cover}.object-top{-o-object-position:top;object-position:top}.p-0{padding:0}.p-3{padding:.75rem}.p-4{padding:1rem}.p-5{padding:1.25rem}.p-6{padding:1.5rem}.p-8{padding:2rem}.px-1\.5{padding-left:.375rem;padding-right:.375rem}.px-2{padding-left:.5rem;padding-right:.5rem}.px-2\.5{padding-left:.625rem;padding-right:.625rem}.px-3{padding-left:.75rem;padding-right:.75rem}.px-4{padding-left:1rem;padding-right:1rem}.px-5{padding-left:1.25rem;padding-right:1.25rem}.py-0\.5{padding-top:.125rem;padding-bottom:.125rem}.py-1{padding-top:.25rem;padding-bottom:.25rem}.py-1\.5{padding-top:.375rem;padding-bottom:.375rem}.py-2{padding-top:.5rem;padding-bottom:.5rem}.py-2\.5{padding-top:.625rem;padding-bottom:.625rem}.py-3{padding-top:.75rem;padding-bottom:.75rem}.py-px{padding-top:1px;padding-bottom:1px}.pb-10{padding-bottom:2.5rem}.pb-2{padding-bottom:.5rem}.pb-20{padding-bottom:5rem}.pl-3{padding-left:.75rem}.pl-4{padding-left:1rem}.pl-8{padding-left:2rem}.pr-2{padding-right:.5rem}.pt-0\.5{padding-top:.125rem}.pt-1{padding-top:.25rem}.pt-10{padding-top:2.5rem}.pt-16{padding-top:4rem}.pt-20{padding-top:5rem}.pt-5{padding-top:1.25rem}.text-left{text-align:left}.font-mono{font-family:Geist Mono,ui-monospace,SFMono-Regular,Menlo,monospace}.font-sans{font-family:Geist,ui-sans-serif,system-ui,-apple-system,Segoe UI,Roboto,sans-serif}.text-2xl{font-size:1.5rem;line-height:2rem}.text-\[10\.5px\]{font-size:10.5px}.text-\[10px\]{font-size:10px}.text-\[11\.5px\]{font-size:11.5px}.text-\[11px\]{font-size:11px}.text-\[12px\]{font-size:12px}.text-\[13px\]{font-size:13px}.text-\[14px\]{font-size:14px}.text-\[15px\]{font-size:15px}.text-\[16\.5px\]{font-size:16.5px}.text-\[17px\]{font-size:17px}.text-\[20px\]{font-size:20px}.text-\[22px\]{font-size:22px}.text-\[24px\]{font-size:24px}.text-\[26px\]{font-size:26px}.text-\[28px\]{font-size:28px}.text-\[30px\]{font-size:30px}.text-\[38px\]{font-size:38px}.text-\[9\.5px\]{font-size:9.5px}.text-lg{font-size:1.125rem;line-height:1.75rem}.text-sm{font-size:.875rem;line-height:1.25rem}.text-xs{font-size:.75rem;line-height:1rem}.font-medium{font-weight:500}.uppercase{text-transform:uppercase}.leading-\[1\.05\]{line-height:1.05}.leading-none{line-height:1}.leading-relaxed{line-height:1.625}.leading-snug{line-height:1.375}.leading-tight{line-height:1.25}.tracking-\[-0\.01em\]{letter-spacing:-.01em}.tracking-\[-0\.02em\]{letter-spacing:-.02em}.tracking-\[-0\.03em\]{letter-spacing:-.03em}.tracking-\[0\.12em\]{letter-spacing:.12em}.tracking-tight{letter-spacing:-.025em}.text-\[\#FF4F00\]{--tw-text-opacity:1;color:rgb(255 79 0/var(--tw-text-opacity,1))}.text-white{--tw-text-opacity:1;color:rgb(255 255 255/var(--tw-text-opacity,1))}.text-zinc-400{--tw-text-opacity:1;color:rgb(161 161 170/var(--tw-text-opacity,1))}.text-zinc-500{--tw-text-opacity:1;color:rgb(113 113 122/var(--tw-text-opacity,1))}.text-zinc-600{--tw-text-opacity:1;color:rgb(82 82 91/var(--tw-text-opacity,1))}.text-zinc-700{--tw-text-opacity:1;color:rgb(63 63 70/var(--tw-text-opacity,1))}.text-zinc-800{--tw-text-opacity:1;color:rgb(39 39 42/var(--tw-text-opacity,1))}.text-zinc-900{--tw-text-opacity:1;color:rgb(24 24 27/var(--tw-text-opacity,1))}.underline{text-decoration-line:underline}.no-underline{text-decoration-line:none}.decoration-zinc-300{text-decoration-color:#d4d4d8}.underline-offset-4{text-underline-offset:4px}.shadow-\[0_20px_60px_-20px_rgba\(24\2c 24\2c 27\2c \.35\)\]{--tw-shadow:0 20px 60px -20px rgba(24,24,27,.35);--tw-shadow-colored:0 20px 60px -20px var(--tw-shadow-color);box-shadow:var(--tw-ring-offset-shadow,0 0 #0000),var(--tw-ring-shadow,0 0 #0000),var(--tw-shadow)}.outline-none{outline:2px solid transparent;outline-offset:2px}.ring{--tw-ring-offset-shadow:var(--tw-ring-inset) 0 0 0 var(--tw-ring-offset-width) var(--tw-ring-offset-color);--tw-ring-shadow:var(--tw-ring-inset) 0 0 0 calc(3px + var(--tw-ring-offset-width)) var(--tw-ring-color);box-shadow:var(--tw-ring-offset-shadow),var(--tw-ring-shadow),var(--tw-shadow,0 0 #0000)}.backdrop-blur-md{--tw-backdrop-blur:blur(12px)}.backdrop-blur-md,.backdrop-blur-sm{-webkit-backdrop-filter:var(--tw-backdrop-blur) var(--tw-backdrop-brightness) var(--tw-backdrop-contrast) var(--tw-backdrop-grayscale) var(--tw-backdrop-hue-rotate) var(--tw-backdrop-invert) var(--tw-backdrop-opacity) var(--tw-backdrop-saturate) var(--tw-backdrop-sepia);backdrop-filter:var(--tw-backdrop-blur) var(--tw-backdrop-brightness) var(--tw-backdrop-contrast) var(--tw-backdrop-grayscale) var(--tw-backdrop-hue-rotate) var(--tw-backdrop-invert) var(--tw-backdrop-opacity) var(--tw-backdrop-saturate) var(--tw-backdrop-sepia)}.backdrop-blur-sm{--tw-backdrop-blur:blur(4px)}.transition-all{transition-property:all;transition-timing-function:cubic-bezier(.4,0,.2,1);transition-duration:.15s}.transition-colors{transition-property:color,background-color,border-color,text-decoration-color,fill,stroke;transition-timing-function:cubic-bezier(.4,0,.2,1);transition-duration:.15s}.transition-transform{transition-property:transform;transition-timing-function:cubic-bezier(.4,0,.2,1);transition-duration:.15s}.duration-300{transition-duration:.3s}.duration-500{transition-duration:.5s}.duration-700{transition-duration:.7s}.ease-in-out{transition-timing-function:cubic-bezier(.4,0,.2,1)}.ease-out{transition-timing-function:cubic-bezier(0,0,.2,1)}.\[text-wrap\:balance\]{text-wrap:balance}.last\:border-b-0:last-child{border-bottom-width:0}.last\:pb-4:last-child{padding-bottom:1rem}.hover\:-translate-y-0\.5:hover{--tw-translate-y:-0.125rem;transform:translate(var(--tw-translate-x),var(--tw-translate-y)) rotate(var(--tw-rotate)) skewX(var(--tw-skew-x)) skewY(var(--tw-skew-y)) scaleX(var(--tw-scale-x)) scaleY(var(--tw-scale-y))}.hover\:border-zinc-300:hover{--tw-border-opacity:1;border-color:rgb(212 212 216/var(--tw-border-opacity,1))}.hover\:border-zinc-900:hover{--tw-border-opacity:1;border-color:rgb(24 24 27/var(--tw-border-opacity,1))}.hover\:bg-white:hover{--tw-bg-opacity:1;background-color:rgb(255 255 255/var(--tw-bg-opacity,1))}.hover\:bg-zinc-50:hover{--tw-bg-opacity:1;background-color:rgb(250 250 250/var(--tw-bg-opacity,1))}.hover\:bg-zinc-700:hover{--tw-bg-opacity:1;background-color:rgb(63 63 70/var(--tw-bg-opacity,1))}.hover\:text-zinc-900:hover{--tw-text-opacity:1;color:rgb(24 24 27/var(--tw-text-opacity,1))}.hover\:decoration-\[\#FF4F00\]:hover{text-decoration-color:#ff4f00}.group:hover .group-hover\:border-zinc-900{--tw-border-opacity:1;border-color:rgb(24 24 27/var(--tw-border-opacity,1))}.group:hover .group-hover\:text-zinc-600{--tw-text-opacity:1;color:rgb(82 82 91/var(--tw-text-opacity,1))}.group:hover .group-hover\:text-zinc-900{--tw-text-opacity:1;color:rgb(24 24 27/var(--tw-text-opacity,1))}@media (min-width:640px){.sm\:inline{display:inline}.sm\:grid-cols-2{grid-template-columns:repeat(2,minmax(0,1fr))}.sm\:grid-cols-3{grid-template-columns:repeat(3,minmax(0,1fr))}.sm\:grid-cols-\[1fr_auto_1fr\]{grid-template-columns:1fr auto 1fr}.sm\:flex-row{flex-direction:row}.sm\:items-center{align-items:center}.sm\:gap-4{gap:1rem}.sm\:p-10{padding:2.5rem}.sm\:p-5{padding:1.25rem}.sm\:p-6{padding:1.5rem}.sm\:p-7{padding:1.75rem}.sm\:px-6{padding-left:1.5rem;padding-right:1.5rem}.sm\:text-\[30px\]{font-size:30px}.sm\:text-\[38px\]{font-size:38px}.sm\:text-\[40px\]{font-size:40px}.sm\:text-\[48px\]{font-size:48px}}@media not all and (min-width:1280px){@media (min-width:640px){.max-xl\:sm\:grid-cols-3{grid-template-columns:repeat(3,minmax(0,1fr))}.max-xl\:sm\:divide-x>:not([hidden])~:not([hidden]){--tw-divide-x-reverse:0;border-right-width:calc(1px*var(--tw-divide-x-reverse));border-left-width:calc(1px*(1 - var(--tw-divide-x-reverse)))}.max-xl\:sm\:divide-y-0>:not([hidden])~:not([hidden]){--tw-divide-y-reverse:0;border-top-width:calc(0px*(1 - var(--tw-divide-y-reverse)));border-bottom-width:calc(0px*var(--tw-divide-y-reverse))}}}@media (min-width:768px){.md\:-left-\[38px\]{left:-38px}.md\:inline{display:inline}.md\:grid-cols-2{grid-template-columns:repeat(2,minmax(0,1fr))}.md\:grid-cols-3{grid-template-columns:repeat(3,minmax(0,1fr))}.md\:grid-cols-\[minmax\(0\2c 1\.2fr\)_minmax\(0\2c 1fr\)\]{grid-template-columns:minmax(0,1.2fr) minmax(0,1fr)}.md\:pl-10{padding-left:2.5rem}}@media (min-width:1024px){.lg\:sticky{position:sticky}.lg\:top-\[96px\]{top:96px}.lg\:flex{display:flex}.lg\:grid-cols-2{grid-template-columns:repeat(2,minmax(0,1fr))}.lg\:grid-cols-5{grid-template-columns:repeat(5,minmax(0,1fr))}.lg\:grid-cols-\[1\.3fr_1fr\]{grid-template-columns:1.3fr 1fr}.lg\:grid-cols-\[200px_minmax\(0\2c 1fr\)\]{grid-template-columns:200px minmax(0,1fr)}.lg\:justify-items-end{justify-items:end}.lg\:gap-8{gap:2rem}.lg\:pt-28{padding-top:7rem}.lg\:text-\[56px\]{font-size:56px}}@media (min-width:1280px){.xl\:sticky{position:sticky}.xl\:top-\[88px\]{top:88px}.xl\:grid-cols-\[240px_minmax\(0\2c 1fr\)\]{grid-template-columns:240px minmax(0,1fr)}.xl\:divide-y>:not([hidden])~:not([hidden]){--tw-divide-y-reverse:0;border-top-width:calc(1px*(1 - var(--tw-divide-y-reverse)));border-bottom-width:calc(1px*var(--tw-divide-y-reverse))}}
 /* Design: zinc-100 base, white cards, 1px #E4E4E7 borders, 4px max radius, one signal orange, green for status only. Single light theme by design. */
 :root{ color-scheme:light; }
 html,body{background:#F4F4F5;color:#18181B}
@@ -293,9 +293,9 @@ function Hero({y}){
   const par = (f, mx)=> REDUCED||!wide ? {} : { transform:`translate3d(${m.x*mx}px, ${-y*f + m.y*mx}px, 0)` };
   return html`
   <section id="top" className="max-w-6xl mx-auto sm:px-6 pt-20 lg:pt-28 pb-10">
-    <div className="grid gap-6 max-w-[760px]">
+    <div className="grid gap-6 max-w-[1040px]">
       <div className="flex items-center gap-3"><span className="w-2 h-2 bg-[#FF4F00]"></span><${Label} className="text-zinc-500">Mimanshi Sharma / AI-ML Implementation Engineer<//></div>
-      <h1 className="text-[40px] sm:text-[60px] leading-[1.02] tracking-[-0.03em] font-medium text-zinc-900 [text-wrap:balance]">I build LLM systems that solve real problems and hold up in production.</h1>
+      <h1 className="text-[38px] sm:text-[48px] lg:text-[56px] leading-[1.05] tracking-[-0.03em] font-medium text-zinc-900 [text-wrap:balance]">Building LLM systems that solve real problems and hold up in production.</h1>
       <p className="text-lg text-zinc-600 max-w-[34em] leading-relaxed">I’m an AI/ML engineer who builds RAG apps and multi-agent systems, and studies how LLMs fail, from hallucinations and bias to confident answers that ignore the input.</p>
       <${Tags} items=${['LLM evaluation','Hallucination detection','Bias mitigation','RAG','Multi-agent systems','LLM-as-a-judge','Human-in-the-loop','Data quality']}/>
       <div className="flex flex-wrap gap-2">
